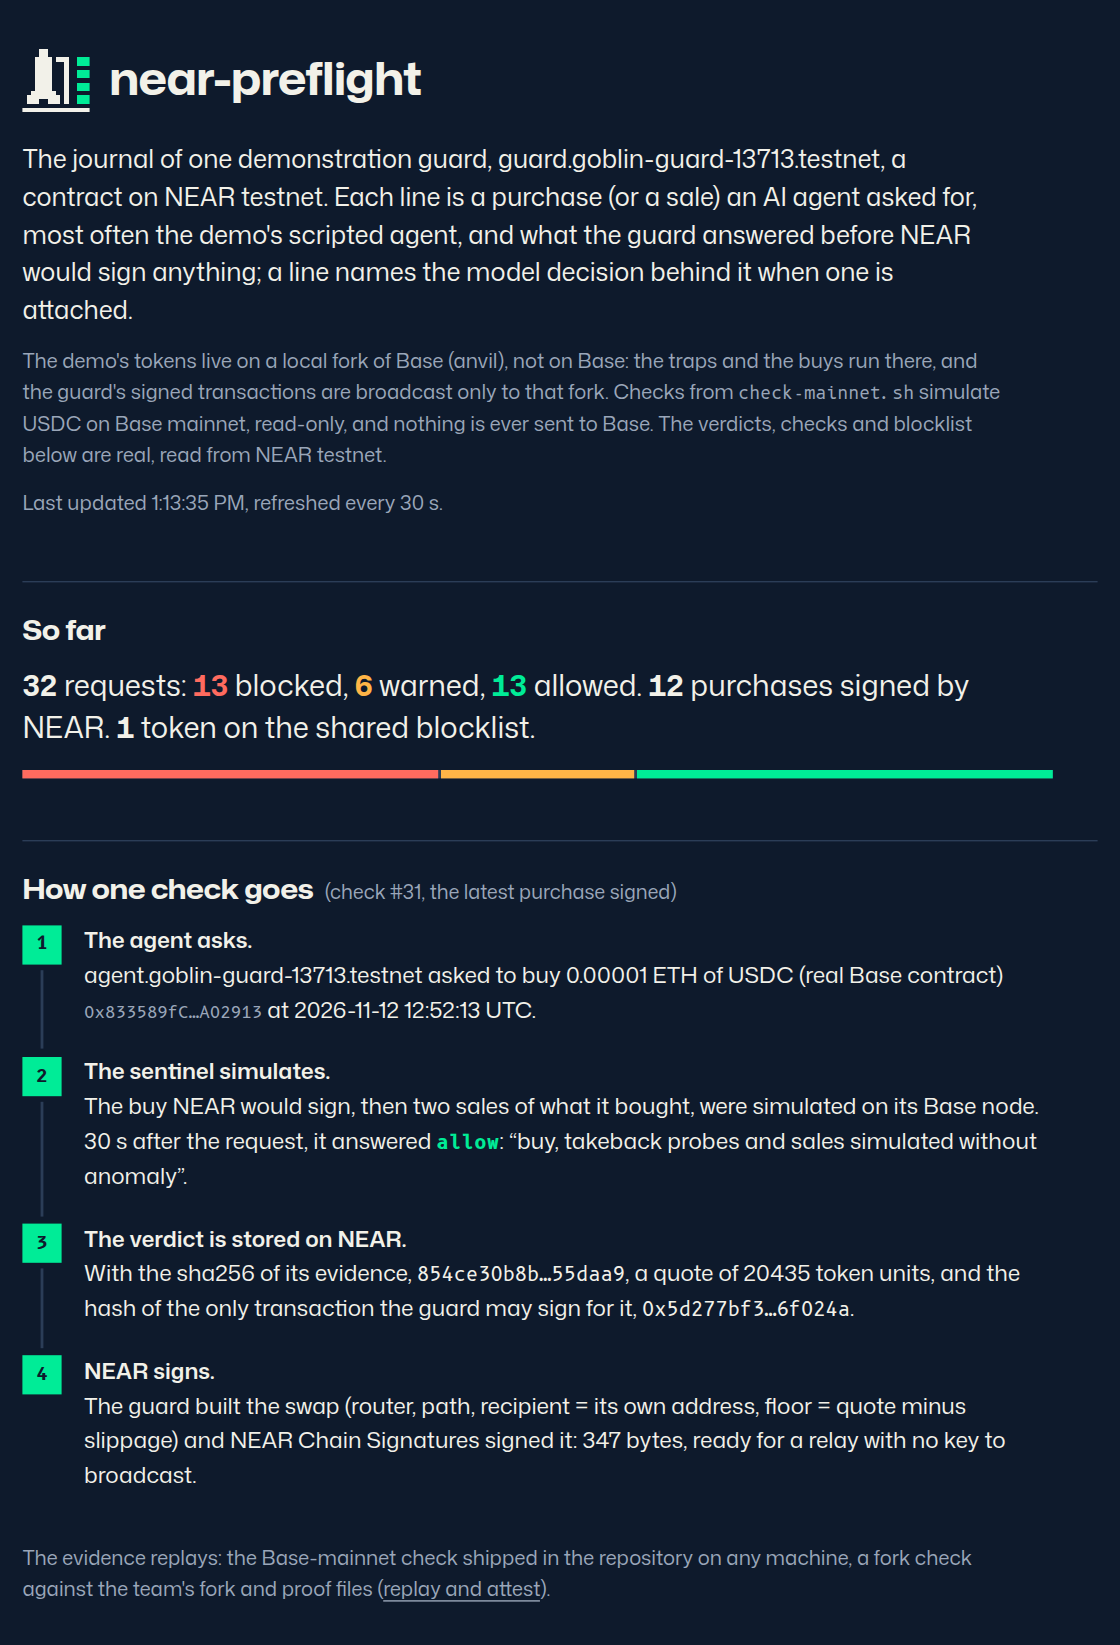
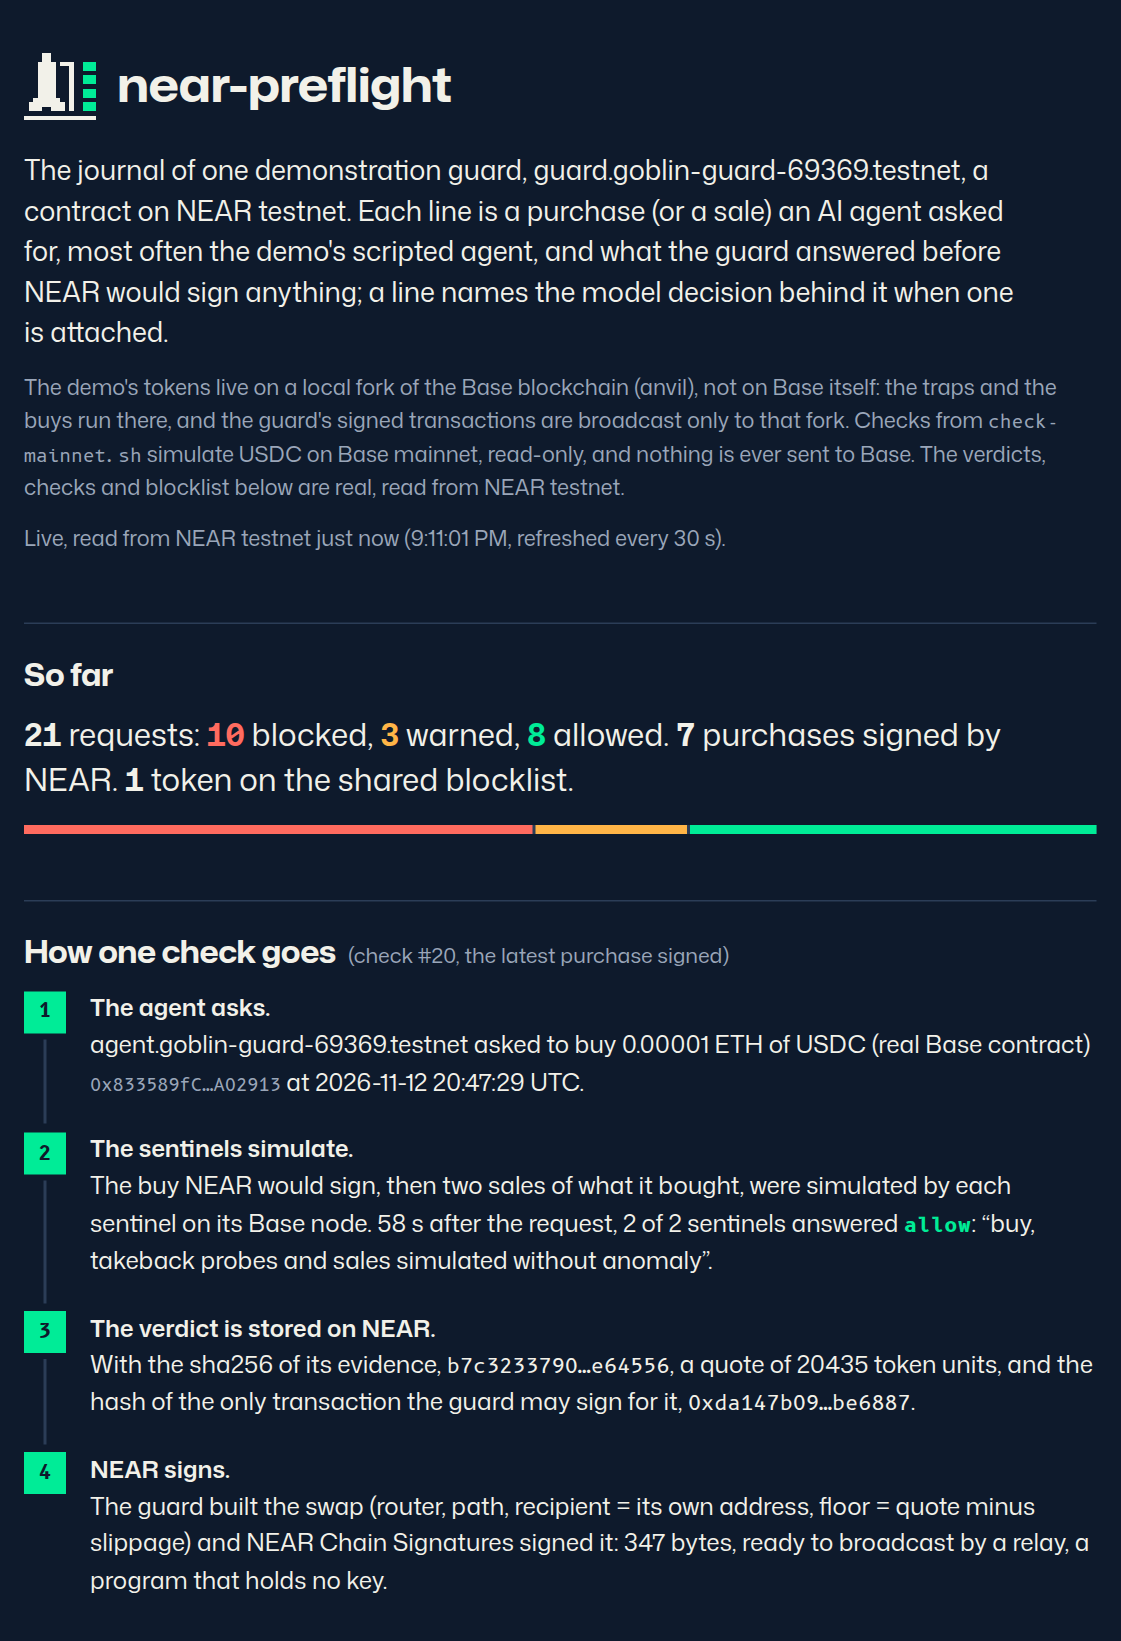
docs: make the site say what two sentinels do, and show the guard's new bounds
After the redeploy the pages still spoke of one sentinel beside a count
of two votes, cut a reason mid-word, and did not show the quorum, the
quarantine or the per-token cap anywhere. The landing page and the
journal now match the deployed guard, and the README's screenshot is
retaken from it.

Claude-Session: https://claude.ai/code/session_01KBM38mKufuegDai3UbJBa9

Changed region(s): [[0.0, 0.3729, 0.9688, 0.9945], [0.0, 0.0311, 0.9375, 0.3419]]

diff --git a/docs/app.js b/docs/app.js
@@ -151,9 +151,12 @@ const signedOf = (k) => (kindOf(k) === 'sale' ? k.settled : !!k.signed_tx); // a
 const votesOf = (k) => k.votes || [];
 const tally = (k) => {
   const v = votesOf(k), same = v.filter((x) => x.verdict === k.verdict).length;
+  if (kindOf(k) === 'sale') return 'an exit quote takes one vote';
   return k.verdict === 'block' ? 'blocked by ' + same + ' of ' + v.length + (v.length === 1 ? ' vote' : ' votes') : same + ' of ' + v.length + (v.length === 1 ? ' sentinel' : ' sentinels');
 };
-const firstReason = (k) => (k.verdict ? (k.reasons ? k.reasons.split(' ; ')[0] : '-') : 'waiting for the sentinels' + (votesOf(k).length ? ' (' + votesOf(k).length + ' voted)' : ''));
+// The guard stores at most 280 characters of reasons: a cut one ends with an ellipsis, not mid-word.
+const reasonsOf = (k) => (k.reasons && k.reasons.length >= 280 ? k.reasons + '…' : k.reasons);
+const firstReason = (k) => (k.verdict ? (k.reasons ? reasonsOf(k).split(' ; ')[0] : '-') : 'waiting for the sentinels' + (votesOf(k).length ? ' (' + votesOf(k).length + ' voted)' : ''));
 
 async function mapBatches(items, fn) {
   const out = [];
@@ -178,8 +181,8 @@ function checkItem({ id, check: k }, open) {
     ['Asked', sale ? 'a sale of ' + k.exit_amount + ' token units (exit quote)' : 'a buy of ' + eth(k.amount_wei)],
     ['Requested', when(k.requested_ns)],
     ['Judged', k.verdict ? when(k.judged_ns) + ' (' + (secs(k.judged_ns) - secs(k.requested_ns)) + ' s later)' : 'not yet'],
-    ['Votes', votesOf(k).length ? el('span', { class: 'stack' }, ...(k.verdict ? [tally(k) + ':'] : []), ...votesOf(k).map((v) => el('span', {}, v.verdict + ' by ' + v.sentinel + ', evidence ', mono(v.evidence_sha256, v.evidence_sha256)))) : 'none yet'],
-    ['Reasons', k.reasons || '-'],
+    ['Votes', votesOf(k).length ? el('span', { class: 'stack' }, ...(k.verdict ? [tally(k) + ':'] : []), ...votesOf(k).map((v) => el('span', { class: 'vote' }, badge(v.verdict), ' ', acct(v.sentinel), el('small', {}, ' evidence ', mono(v.evidence_sha256))))) : 'none yet'],
+    ['Reasons', reasonsOf(k) || '-'],
     ['Quote', sale ? eth(k.quote) + ' for the sale' : k.quote + ' token units for the buy'],
     k.verdict === 'warn' && ['Owner approval', k.approved ? 'approved' : 'not approved'],
     k.verdict === 'block' && ['Asked to list the token', k.list_target ? 'yes' : 'no'],
@@ -287,12 +290,17 @@ async function renderState(checks) {
 }
 
 async function renderBounds() {
-  const [b, e] = await Promise.all([view('bounds'), view('evm_config')]);
+  // A guard deployed before the quorum has neither view: its two lines say so, the rest still shows.
+  const opt = (m) => view(m).catch((err) => { console.warn(m + ' not read:', err); return null; });
+  const span = (s) => (s % 3600 ? s / 60 + ' min' : s / 3600 + ' h');
+  const [b, e, s, t] = await Promise.all([view('bounds'), view('evm_config'), opt('sentinels'), opt('token_limits')]);
   facts($('bounds'), [
     ['Max budget per arming', near(b.max_budget)],
     ['Max arming duration', b.max_duration_s + ' s'],
     ['Max armed over 7 days', near(b.max_7d)],
     ['Max per buy', eth(b.max_buy_wei)],
+    ['Sentinels', s ? el('span', { class: 'stack' }, ...s.sentinels.map(acct), s.quorum + ' matching votes for an allow or a warn; one block vote blocks') : 'not read on this guard'],
+    ['Per token, all agents', t ? 'a block closes the token for ' + span(t.quarantine_s) + '; at most ' + eth(t.cap_wei) + ' bought per ' + span(t.cap_period_s) : 'not read on this guard'],
     ['EVM address NEAR signs for', mono(e.address, e.address)],
     ['Withdrawal address (owner)', mono(e.withdraw_to, e.withdraw_to)],
     ['Floor under the quote', (e.max_slippage_bps / 100) + ' % (' + e.max_slippage_bps + ' bps)'],

diff --git a/docs/index.html b/docs/index.html
@@ -87,8 +87,8 @@
         <p class="lede">
           The agent buys on the Base blockchain only through the guard, a NEAR
           contract. Before
-          NEAR signs, a sentinel simulates the buy and the resale, checks
-          whether the token's code has drained pools before, and stores a
+          NEAR signs, two sentinels simulate the buy and the resale, check
+          whether the token's code has drained pools before, and vote a
           verdict anyone can replay: <span class="vw allow">allow</span>,
           <span class="vw warn">warn</span> (the owner decides) or
           <span class="vw block">block</span>.
@@ -371,8 +371,8 @@
             <text class="name" x="32" y="320">AI agent</text>
             <text class="sub" x="32" y="344">no key for Base</text>
             <rect class="box" x="176" y="282" width="130" height="88" />
-            <text class="name" x="192" y="320">sentinel</text>
-            <text class="sub" x="192" y="344">off-chain</text>
+            <text class="name" x="192" y="320">sentinels</text>
+            <text class="sub" x="192" y="344">off-chain, two</text>
             <rect class="box" x="366" y="282" width="178" height="88" />
             <text class="name" x="382" y="320">Base blockchain</text>
             <text class="sub" x="382" y="344">a local fork here</text>

diff --git a/docs/landing.js b/docs/landing.js
@@ -153,11 +153,12 @@ function renderLive(guard, last, checks, note) {
 // What each lamp's line says, from the check's own fields.
 function lines(c, choice, addr) {
   const k = c.check;
-  const reasons = k.reasons ? k.reasons.split(' ; ') : [];
+  // The guard stores at most 280 characters of reasons: a cut one ends with an ellipsis, not mid-word.
+  const reasons = k.reasons ? (k.reasons.length >= 280 ? k.reasons + '…' : k.reasons).split(' ; ') : [];
   const bytes = k.signed_tx ? atob(k.signed_tx).length : 0;
   const w1 = [el('code', { class: 'acct' }, k.agent), ' asked to buy ', el('strong', {}, eth(k.amount_wei)), ' of token ', mono(addr),
     ', and paid for the check.'];
-  const w2 = ['The sentinel simulated the buy NEAR would sign, then two sales of what it bought, and answered ',
+  const w2 = ['Each sentinel simulated the buy NEAR would sign, then two sales of what it bought. The verdict came ',
     secs(k.judged_ns) - secs(k.requested_ns) + ' s after the request. The buy quotes ' + units(k.quote) + ' token units.'];
   const votes = k.votes || [], same = votes.filter((v) => v.verdict === k.verdict).length;
   const tally = !votes.length ? '' : k.verdict === 'block' ? ' (blocked by ' + same + ' of ' + votes.length + (votes.length === 1 ? ' vote)' : ' votes)')

diff --git a/docs/style.css b/docs/style.css
@@ -61,6 +61,7 @@ main>section,details.more{margin-top:2.75rem;padding-top:1.25rem;border-top:1px 
 .facts{display:grid;grid-template-columns:max-content minmax(0,1fr);gap:.4rem 1.5rem;margin:0;padding:1rem 1.25rem;background:var(--raised)}
 .facts dt{color:var(--dim)} .facts dd{margin:0;overflow-wrap:anywhere;min-width:0}
 .stack{display:flex;flex-direction:column;gap:.15rem}
+.vote small{color:var(--dim);font-size:.82rem;margin-left:.35rem}
 .blob{display:block;max-height:6.5rem;overflow:auto;margin-top:.2rem;padding:.4rem .55rem;background:var(--ground);word-break:break-all;font-size:.78rem}
 
 /* A check: its four lamps in the verdict's colour, then the word. Asked, simulated and stored light with the verdict;
